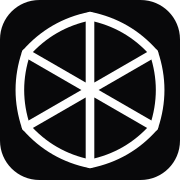
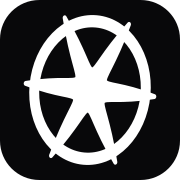
Match the reference CORE star and ring emblem

diff --git a/scripts/generate-brand-icons.tsx b/scripts/generate-brand-icons.tsx
@@ -1,0 +1,52 @@
+import { writeFile } from "node:fs/promises";
+import path from "node:path";
+import React from "react";
+import { renderToStaticMarkup } from "react-dom/server";
+import sharp from "sharp";
+import { CoreSymbolArt } from "../components/brand/CoreSymbol";
+
+async function main() {
+  const appDirectory = path.resolve("app");
+  // Keep every favicon format and the navbar on the same drawing.
+  const source = Buffer.from(renderToStaticMarkup(
+    <svg xmlns="http://www.w3.org/2000/svg" width="64" height="64" viewBox="0 0 64 64">
+      <rect width="64" height="64" rx="14" fill="#08080a" />
+      <g transform="translate(4 4) scale(.875)" color="#fff">
+        <CoreSymbolArt />
+      </g>
+    </svg>,
+  ));
+  // Next's numbered icon convention advertises the vector alongside icon.png.
+  await writeFile(path.join(appDirectory, "icon1.svg"), source);
+
+  for (const [filename, size] of [["icon.png", 512], ["apple-icon.png", 180]] as const) {
+    await sharp(source).resize(size, size).png().toFile(path.join(appDirectory, filename));
+  }
+
+  // PNG-backed ICO frames cover the small sizes used by browser tabs and bookmarks.
+  const sizes = [16, 32, 48];
+  const frames = await Promise.all(sizes.map(async (size) => ({
+    size,
+    png: await sharp(source).resize(size, size).png().toBuffer(),
+  })));
+  const header = Buffer.alloc(6 + frames.length * 16);
+  header.writeUInt16LE(1, 2);
+  header.writeUInt16LE(frames.length, 4);
+  let offset = header.length;
+  for (const [index, { size, png }] of frames.entries()) {
+    const entry = 6 + index * 16;
+    header[entry] = size;
+    header[entry + 1] = size;
+    header.writeUInt16LE(1, entry + 4);
+    header.writeUInt16LE(32, entry + 6);
+    header.writeUInt32LE(png.length, entry + 8);
+    header.writeUInt32LE(offset, entry + 12);
+    offset += png.length;
+  }
+  await writeFile(path.join(appDirectory, "favicon.ico"), Buffer.concat([header, ...frames.map(({ png }) => png)]));
+}
+
+main().catch((error: unknown) => {
+  console.error(error);
+  process.exitCode = 1;
+});

diff --git a/components/brand/CoreSymbol.tsx b/components/brand/CoreSymbol.tsx
@@ -1,4 +1,20 @@
-/** The CORE ring has six subtle star points, with one pointing straight up. */
+import React from "react";
+
+/** The supplied CORE mark has a tapered, filled star inside a rounded rim. */
+export function CoreSymbolArt() {
+  return (
+    <g transform="translate(32 32) rotate(5.25) scale(.808 1)" fill="currentColor">
+      <circle r="28" fill="none" stroke="currentColor" strokeWidth="5" />
+      <path
+        d="M32.499 .284C-2.565 7.478 5.297-5.869 16.004 28.287C-7.759 1.517 7.731 1.652-16.495 28.003C-5.193-5.961 2.434 7.522-32.499-.284C2.565-7.478-5.297 5.869-16.004-28.287C7.759-1.517-7.731-1.652 16.495-28.003C5.193 5.961-2.434-7.522 32.499 .284Z"
+        stroke="currentColor"
+        strokeWidth="2"
+        strokeLinejoin="round"
+      />
+    </g>
+  );
+}
+
 export function CoreSymbol({ className }: { className?: string }) {
   return (
     <svg
@@ -9,13 +25,8 @@ export function CoreSymbol({ className }: { className?: string }) {
       height="64"
       viewBox="0 0 64 64"
       fill="none"
-      stroke="currentColor"
-      strokeWidth="3.5"
-      strokeLinecap="round"
-      strokeLinejoin="miter"
     >
-      <path d="M32 2Q47.51 5.137 57.981 17Q63.019 32 57.981 47Q47.51 58.863 32 62Q16.49 58.863 6.019 47Q.981 32 6.019 17Q16.49 5.137 32 2Z" />
-      <path d="M32 2v60M6.019 17l51.962 30M6.019 47l51.962-30" />
+      <CoreSymbolArt />
     </svg>
   );
 }

diff --git a/app/globals.css b/app/globals.css
@@ -565,7 +565,7 @@ body[data-cursor="agentic"] [data-drag-scroll-root="true"].is-dragging * {
   -webkit-text-stroke: 0;
 }
 
-/* CORE's station identity pairs Barlow Condensed with the six-spoke O. */
+/* CORE's station identity pairs Barlow Condensed with its star and ring O. */
 .core-wordmark {
   display: inline-block;
   font-family: var(--font-core-wordmark), "Barlow Condensed", Impact, sans-serif;

diff --git a/components/brand/CoreWordmark.tsx b/components/brand/CoreWordmark.tsx
@@ -1,7 +1,7 @@
 import { cn } from "@/lib/utils";
 import { CoreSymbol } from "./CoreSymbol";
 
-/** The CORE wordmark uses the six-spoke ring as its O. */
+/** The CORE wordmark uses its star and ring emblem as the O. */
 export function CoreWordmark({ className }: { className?: string }) {
   return (
     <span className={cn("core-wordmark", className)} role="img" aria-label="CORE">
